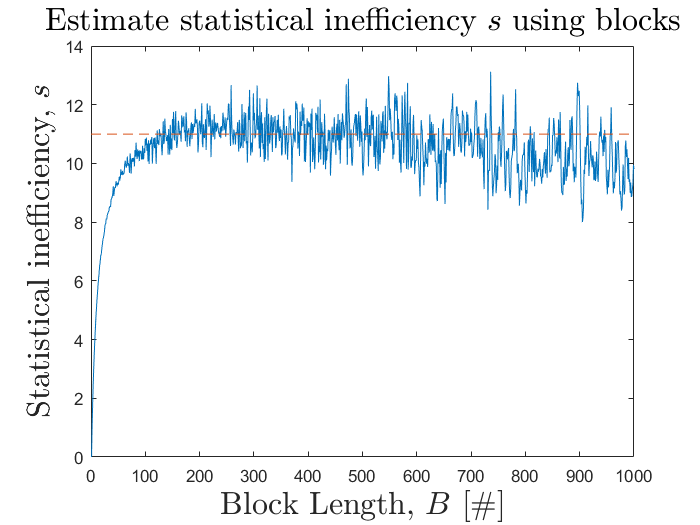
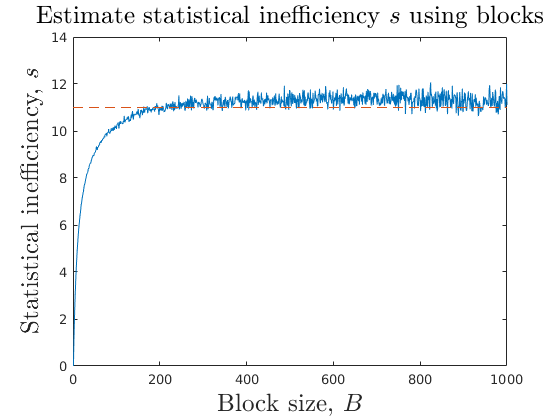
Worked on the report and changed a couple of figures.

Changed region(s): [[0.0304, 0.0, 0.9714, 1.0], [0.0304, 0.1548, 0.0911, 0.1857]]

diff --git a/report/report.tex b/report/report.tex
@@ -47,21 +47,25 @@ This probability will never be calculated directly as we only need the relative 
 \begin{figure}[H]
     \centering
     \captionsetup[subfigure]{justification=centering}
-    \begin{subfigure}[b]{0.49\textwidth}
+    \begin{subfigure}[b]{0.7\textwidth}
         \centering
         \includegraphics[width=\textwidth]{graphics/task1/radius.png}
+		\caption{}
+		\label{fig:RDF_a}
     \end{subfigure}
-    \begin{subfigure}[b]{0.49\textwidth}
+    \begin{subfigure}[b]{0.7\textwidth}
         \centering
         \includegraphics[width=\textwidth]{graphics/task1/angle_diff_dist.png}
+        \caption{}
+		\label{fig:RDF_b}
     \end{subfigure}
-    \caption{\textit{Left:} Simulated and calculated radial distribution function for the two electrons in the helium atom. \textit{Right:} The distribution of cosine of the angle $\theta$ between the two electrons.}
+    \caption{\textit{(a):} Simulated and calculated radial distribution function for the two electrons in the helium atom. \textit{(b):} The distribution of cosine of the angle $\theta$ between the two electrons.}
     \label{fig:RDF}
 \end{figure}
 
 In this problem we studied a He atom using the variational Monte Carlo method with the Metropolis algorithm. In the Metropolis algorithm a new trial state is obtained by randomly displacing both electrons in all three dimensions simultaneously. The displacement is bounded by a cube with side $d$, where $d$ is a simulation parameter which was chosen as $\unit[1]{\AA}$. Other equations used can be found in \cite{probdesc}.
 
-From the obtained sample points, a radial probability distribution function could be approxiated, which can be seen in Fig.~\ref{fig:RDF} (left). Comparing the result to the variationally optimized distribution and the central field approximation result we conclude that that the results are the same as the variationally optimized distribution and that the method is working properly. This effect is due to screening, causing the effective nucleus charge to be lower than the actual charge.
+From the obtained sample points, a radial probability distribution function could be approxiated, which can be seen in Fig.~\ref{fig:RDF_a}. Comparing the result to the variationally optimized distribution and the central field approximation result we conclude that that the results are the same as the variationally optimized distribution and that the method is working properly. This effect is due to screening, causing the effective nucleus charge to be lower than the actual charge.
 
 From these sample points we can also study the correlation of the angle between the two electrons, $\theta$. We obtain $\theta$ by using the relation
 \begin{equation}
@@ -72,7 +76,7 @@ As stated in \cite{probdesc}, if they are uncorrelated, i.e. equally distributed
 	x = \cos \theta \Rightarrow P(x) = \frac{1}{2},\quad -1 < x < 1.
 \end{equation}
 
-The variational Monte Carlo yields the results in Fig.~\ref{fig:RDF} (right). This indicates a clear correlation where the electrons tend to be approximately on the opposite side of the nucleus. At least a slight correlation is expected, however whether it should be this strongly correlated or not, we do not know.
+The variational Monte Carlo yields the results in Fig.~\ref{fig:RDF_b}. This indicates a clear correlation where the electrons tend to be approximately on the opposite side of the nucleus. At least a slight correlation is expected, however whether it should be this strongly correlated or not, we do not know.
 
 The mean energy obtained with variational Monte Carlo was -2.877 in Hartree atomic units. The results from mean-field approximation, for unscreened and screened nucleus respectively, are -2.75 and -2.85 atomic units. We see that the results are similar and that the one obtained with variational MC is even lower than the others and is therefore probably closer to the ground-state energy for Helium.
 
@@ -82,29 +86,35 @@ The mean energy obtained with variational Monte Carlo was -2.877 in Hartree atom
 \begin{figure}[H]
 	\centering
 	\captionsetup[subfigure]{justification=centering}
-	\begin{subfigure}[b]{0.49\textwidth}
+	\begin{subfigure}[b]{0.7\textwidth}
 		\centering
 		\includegraphics[width=\textwidth]{graphics/task2/local_energy.png}
+		\caption{}
+		\label{fig:block_error_a}
 	\end{subfigure}
-	\begin{subfigure}[b]{0.49\textwidth}
+	\begin{subfigure}[b]{0.7\textwidth}
 		\centering
 		\includegraphics[width=\textwidth]{graphics/task2/block_error.png}
+		\caption{}
+		\label{fig:block_error_b}
 	\end{subfigure}
-	\begin{subfigure}[b]{0.49\textwidth}
+	\begin{subfigure}[b]{0.7\textwidth}
 		\centering
 		\includegraphics[width=\textwidth]{graphics/task2/auto_corr.png}
+		\caption{}
+		\label{fig:block_error_c}
 	\end{subfigure}
-	\caption{\textit{Left:} The estimation of the ground state energy $E_0$ for different number of trials without equilibration, there is no apparent drift in the local energy. \textit{Right:} Estimation of the statistical inefficiency based on different block lengths. After the length of about 200 we can see that the statistical inefficiency $s$ fluctuates around 11 and starts to go slightly down for higher lengths. This is caused by the amount of blocks for larger block sizes decreasing too much, in turn giving a less reliable estimate of $S$ S\AA{} BEH\"OVER VI \"ANDRA LITE P\AA{} TEXTEN HÄR NÄR VI F\AA{}TT R\"ATT LAYOUT. }
+	\caption{\textit{(a):} The estimation of the ground state energy $E_0$ for different number of trials without equilibration, there is no apparent drift in the local energy. \textit{(b):} Estimation of the statistical inefficiency based on different block lengths. After the length of about 200 we can see that the statistical inefficiency $s$ reaches and fluctuates around 11 and starts to fluctuate more for larger sizes. This is caused by the amount of blocks for larger block sizes decreasing too much, in turn giving a less reliable estimate of $s$. \textit{(c):} The decay of the auto-correlation function. The threshold $e^{-2}$ is also shown, where the statistical inefficiency is the $k$ for which $\Phi_k$ is less than the threshold.}
 	\label{fig:block_error}
 \end{figure}
 
-In order for the Metropolis algorithm to yield good and accurate results we need the system to run for a time in order to reach statistically likely configurations as the initial condition might be very unlikely. As we can see in Fig. \ref{fig:block_error}(left) there is not much drift in the local energy over time, (though there is a lot of deviation between each trial, but the mean is about the same over the trials).
+In order for the Metropolis algorithm to yield good and accurate results we need the system to run for a time in order to reach statistically likely configurations as the initial condition might be very unlikely. However, as we can see in Fig. \ref{fig:block_error_a} there is not much drift in the local energy over time. That that means that the initial configuration is a reasonable one. Despite this, just to be sure, we choose an equilibration time of 1000 timesteps.
 
-We can see in Fig. \ref{fig:block_error}(left) that we need discard $\approx10^4$ trials. For the remainder of the tasks we go well beyond this number, we take one tenth of the total trials as equilibration, to really make sure we reach a good statistically likely Markov chain.
+%We can see in Fig. \ref{fig:block_error_b} that we need to discard $\approx10^4$ trials. For the remainder of the tasks we go well beyond this number, we take one tenth of the total trials as equilibration, to really make sure we reach a good statistically likely Markov chain.
 
-When we know where to start our simulation we need to know how correlated the trial data is in order to receive accurate statistics. If we take the energy in each time-step we would like to know it's statistical inefficiency. This calculation is done in two ways to show our results are rigorous, first by considering blocks of different lengths and calculate the correlation of the data in these blocks, and secondly by calculating the auto-correlation function.
+To obtain accurate estimates of the error we compute the statistical inefficiency. This is done in two ways, first by considering block averaging using blocks of different sizes and calculate the correlation of the data in these blocks, and secondly by using the auto-correlation function.
 
-The results for using the block length can be seen in Fig.\ref{fig:block_error}(right) and we see that it stagnates around 11 for about 200 in block length. The statistical inefficiency using the auto-correlation was also 11 which can be seen in Fig. \ref{fig:block_error} (WHERE????). (The auto-correlation is calculated to be when the decay of the correlation of the steps is below $e^-2$.)(RÄTT?).
+The results for using the block size can be seen in Fig.\ref{fig:block_error_b} and we see that it fluctuates somewhere around 11. The statistical inefficiency obtained using the auto-correlation was also 11 which can be seen in Fig. \ref{fig:block_error_c}. The statistical inefficiency $s$ is calculated to be when the auto-correlation function has decayed past the threshold $\Phi_s < e^{-2}$.
 
 
 
@@ -115,19 +125,23 @@ The results for using the block length can be seen in Fig.\ref{fig:block_error}(
 \begin{figure}[H]
 	\centering
 	\captionsetup[subfigure]{justification=centering}
-	\begin{subfigure}[b]{0.49\textwidth}
+	\begin{subfigure}[b]{0.7\textwidth}
 		\centering
 		\includegraphics[width=\textwidth]{graphics/task3/lowest_energy_indep_alpha.png}
+		\caption{}
+		\label{fig:optimize_alpha_a}
 	\end{subfigure}
-	\begin{subfigure}[b]{0.49\textwidth}
+	\begin{subfigure}[b]{0.7\textwidth}
 		\centering
 		\includegraphics[width=\textwidth]{graphics/task3/lowest_energy_one_alpha_run.png}
+		\caption{}
+		\label{fig:optimize_alpha_b}
 	\end{subfigure}
-	\caption{Estimation of the optimal variation parameter $\alpha$ for calculating the lowest energy in the Metropolis algorithm. This estimation is done by running several independent runs for each $\alpha$ (\textit{left}) and also using a long simulation with only one run per $\alpha$ (\textit{right}).}
+	\caption{Estimation of the optimal variation parameter $\alpha$ for calculating the lowest energy in the Metropolis algorithm. This estimation is done by running several independent runs for each $\alpha$ (a) and also using a long simulation with only one run per $\alpha$ (b).}
 	\label{fig:optimize_alpha}
 \end{figure}
 
-In order to determine the best value of the variational parameter $\alpha$, we run the Metropolis using several different $\alpha$ values in the interval $0.05 \leq \alpha \leq 0.25$. We estimate the $\alpha$ dependence in two ways, first by doing short independent runs for the same $\alpha$ and estimating the mean and standard deviation from the average energies of the individual runs, see Fig.~\ref{fig:optimize_alpha} (\textit{left}). The second way we do by taking a long run, about $100$ times longer than the short ones, and estimating the mean and standard deviation of the energy on the single run over time, see Fig.~\ref{fig:optimize_alpha} (\textit{right}). 
+In order to determine the best value of the variational parameter $\alpha$, we run the Metropolis algorithm using several different $\alpha$ values in the interval $0.05 \leq \alpha \leq 0.25$. We estimate the $\alpha$ dependence in two ways, first by doing short independent runs for the same $\alpha$ and estimating the mean and standard deviation from the average energies of the individual runs, see Fig.~\ref{fig:optimize_alpha_a}. The second way we do by taking a long run, about $100$ times longer than the short ones, and estimating the mean and standard deviation of the energy on the single run over time, see Fig.~\ref{fig:optimize_alpha_b}. 
 
 \section*{Problem 4}
 
@@ -166,9 +180,12 @@ Using this method, and with $\beta = 0.75$ we find that the minimum energy to be
 
 \section*{Problem 5}
 
-Using the $\alpha$ found in Problem 4, we do a long simulation in order to see what value we receive. We find our energy to be, $E_{min}=-2.878223$ which lies between the Hartree value $\unit[-2.862]{a.u.}$ and the experimental number $\unit[-2.9033]{a.u.}$
+Using the $\alpha$ found in Problem 4, a long simulation was run in order to see what value we receive. The energy was found to be, $E_{min}=\unit[-2.878223]{a.u.}$ which lies between the Hartree value $\unit[-2.862]{a.u.}$ and the experimental number $\unit[-2.9033]{a.u.}$
 
-$Mean = -2.878153, var = 1.275041E-7$
+The mean and variance found in the simulation were $\unit[-2.878153]{a.u.}$ and $\unit[1.275041 \cdot 10^{-7}]{a.u.}$ respectively.
+%$Mean = -2.878153, var = 1.275041E-7$
+
+TODO errors and limitations of variational MC
 
 
 \bibliography{references}

diff --git a/code/Task2/plot_block_error.m b/code/Task2/plot_block_error.m
@@ -1,4 +1,4 @@
-clear all, close all, clc
+clear all; close all; clc
 
 block_error=importdata('block_length.dat');
 
@@ -7,6 +7,6 @@ hold on
 plot([0, length(block_error)],[11, 11],'--')
 
 ylabel('Statistical inefficiency, $s$','interpreter','latex','fontsize',19)
-xlabel('Block Length, $B$ [$\#$]','interpreter','latex','fontsize',19)
+xlabel('Block size, $B$','interpreter','latex','fontsize',19)
 title('Estimate statistical inefficiency $s$ using blocks','interpreter','latex','fontsize',19)
 

diff --git a/code/Task2/plot_energies.m b/code/Task2/plot_energies.m
@@ -1,10 +1,10 @@
-clear all, close all, clc
+clear all; close all; clc
 
 energies=importdata('energy.dat');
 
 plot(energies(1:10000))
 
-ylabel('Energy [$a.u$]','interpreter','latex','fontsize',19)
-xlabel('Number of trials [$\#$]','interpreter','latex','fontsize',19)
+ylabel('Energy [a.u.]','interpreter','latex','fontsize',19)
+xlabel('Number of trials','interpreter','latex','fontsize',19)
 title('Estimated ground state energy $E_0$','interpreter','latex','fontsize',19)
 
